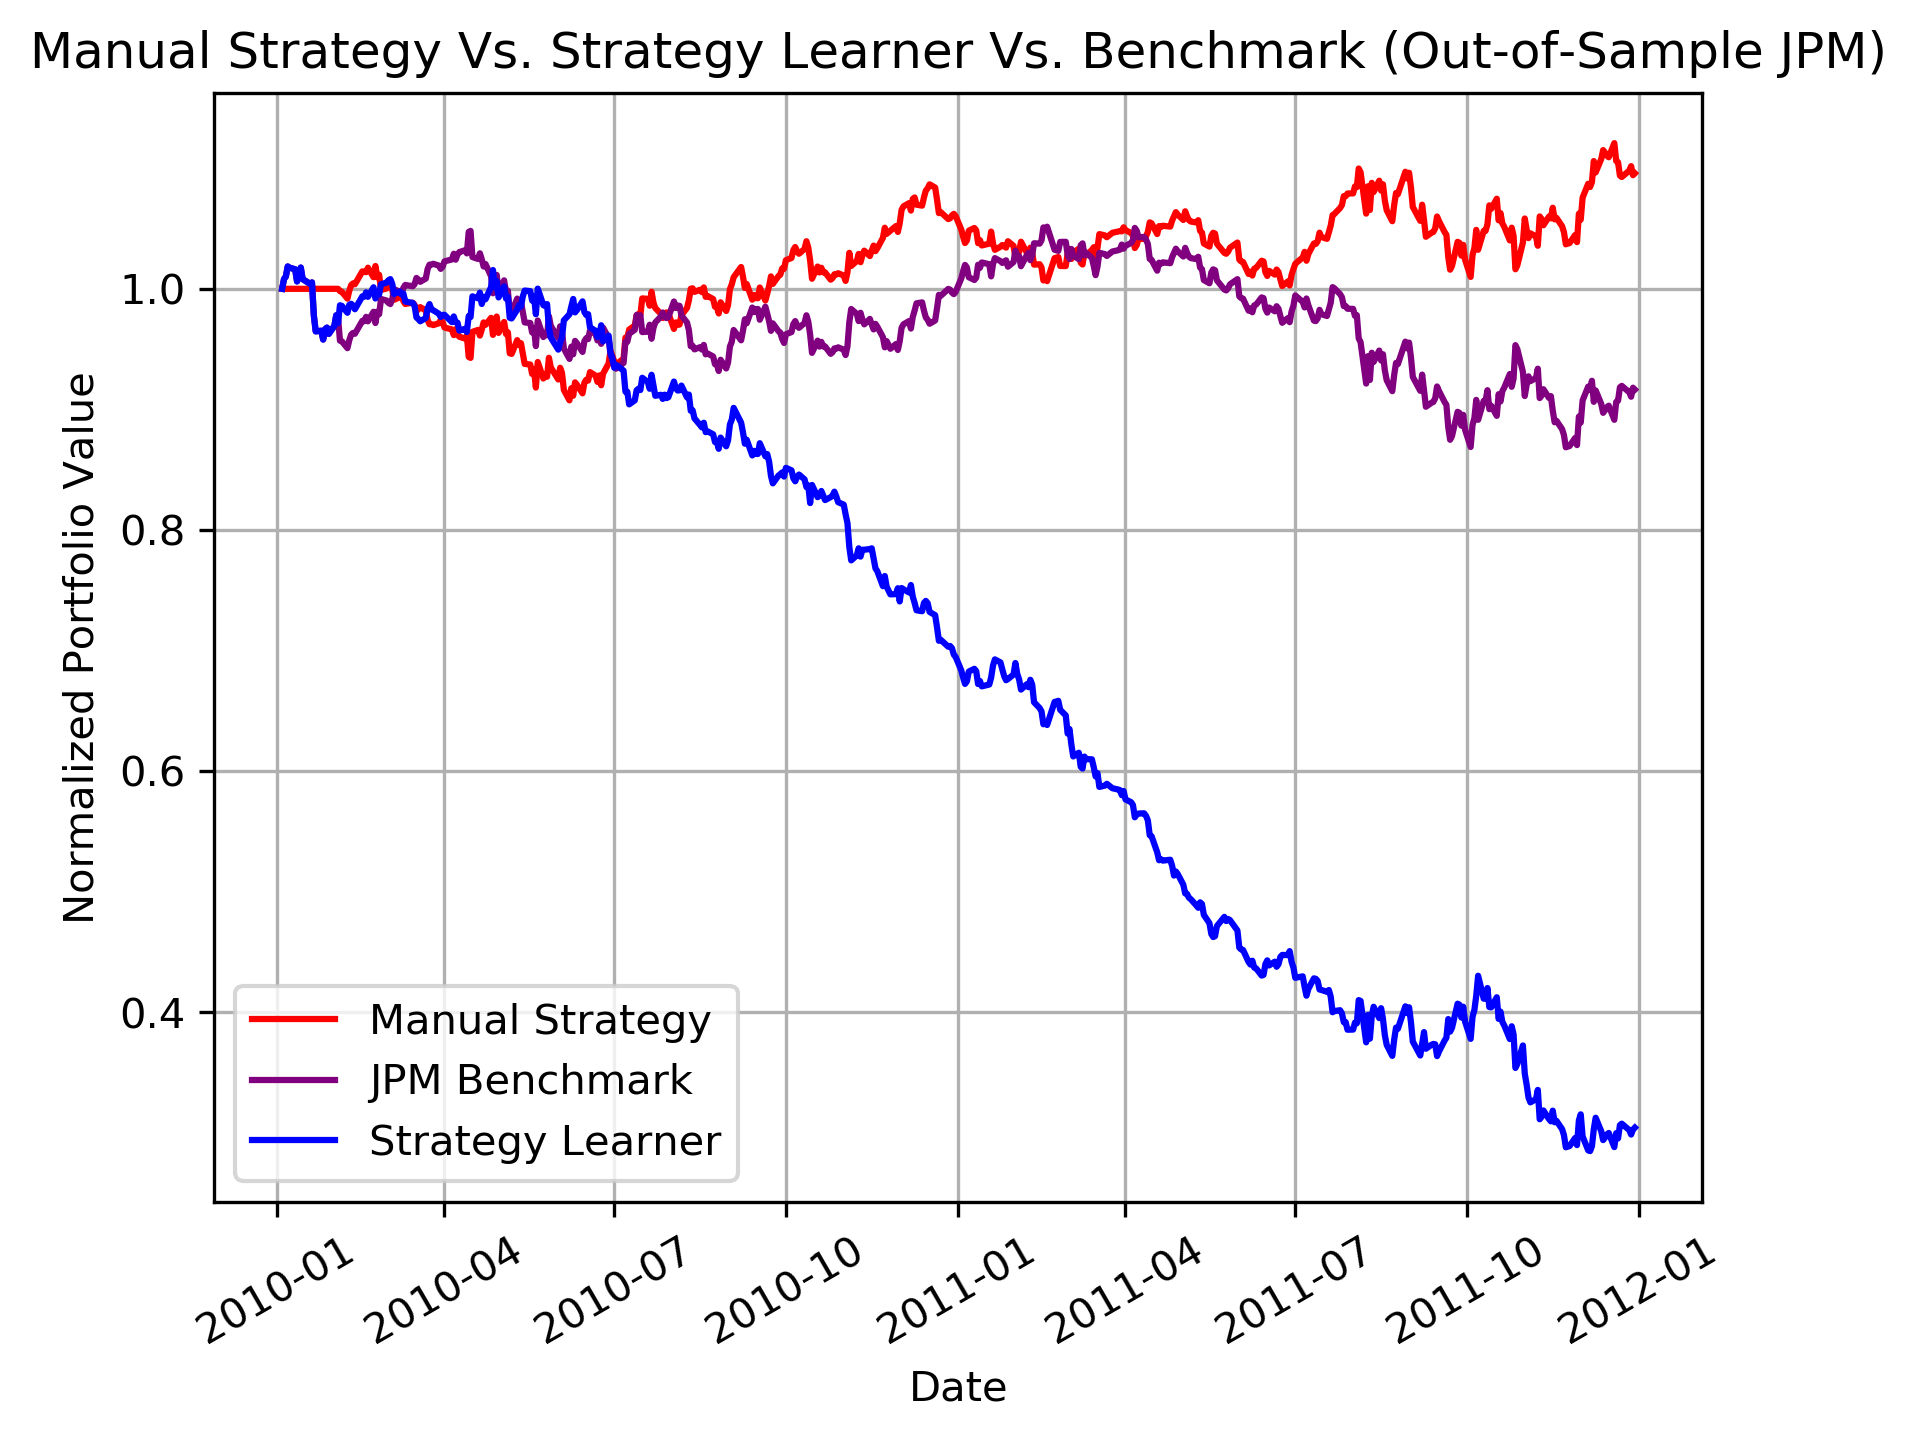
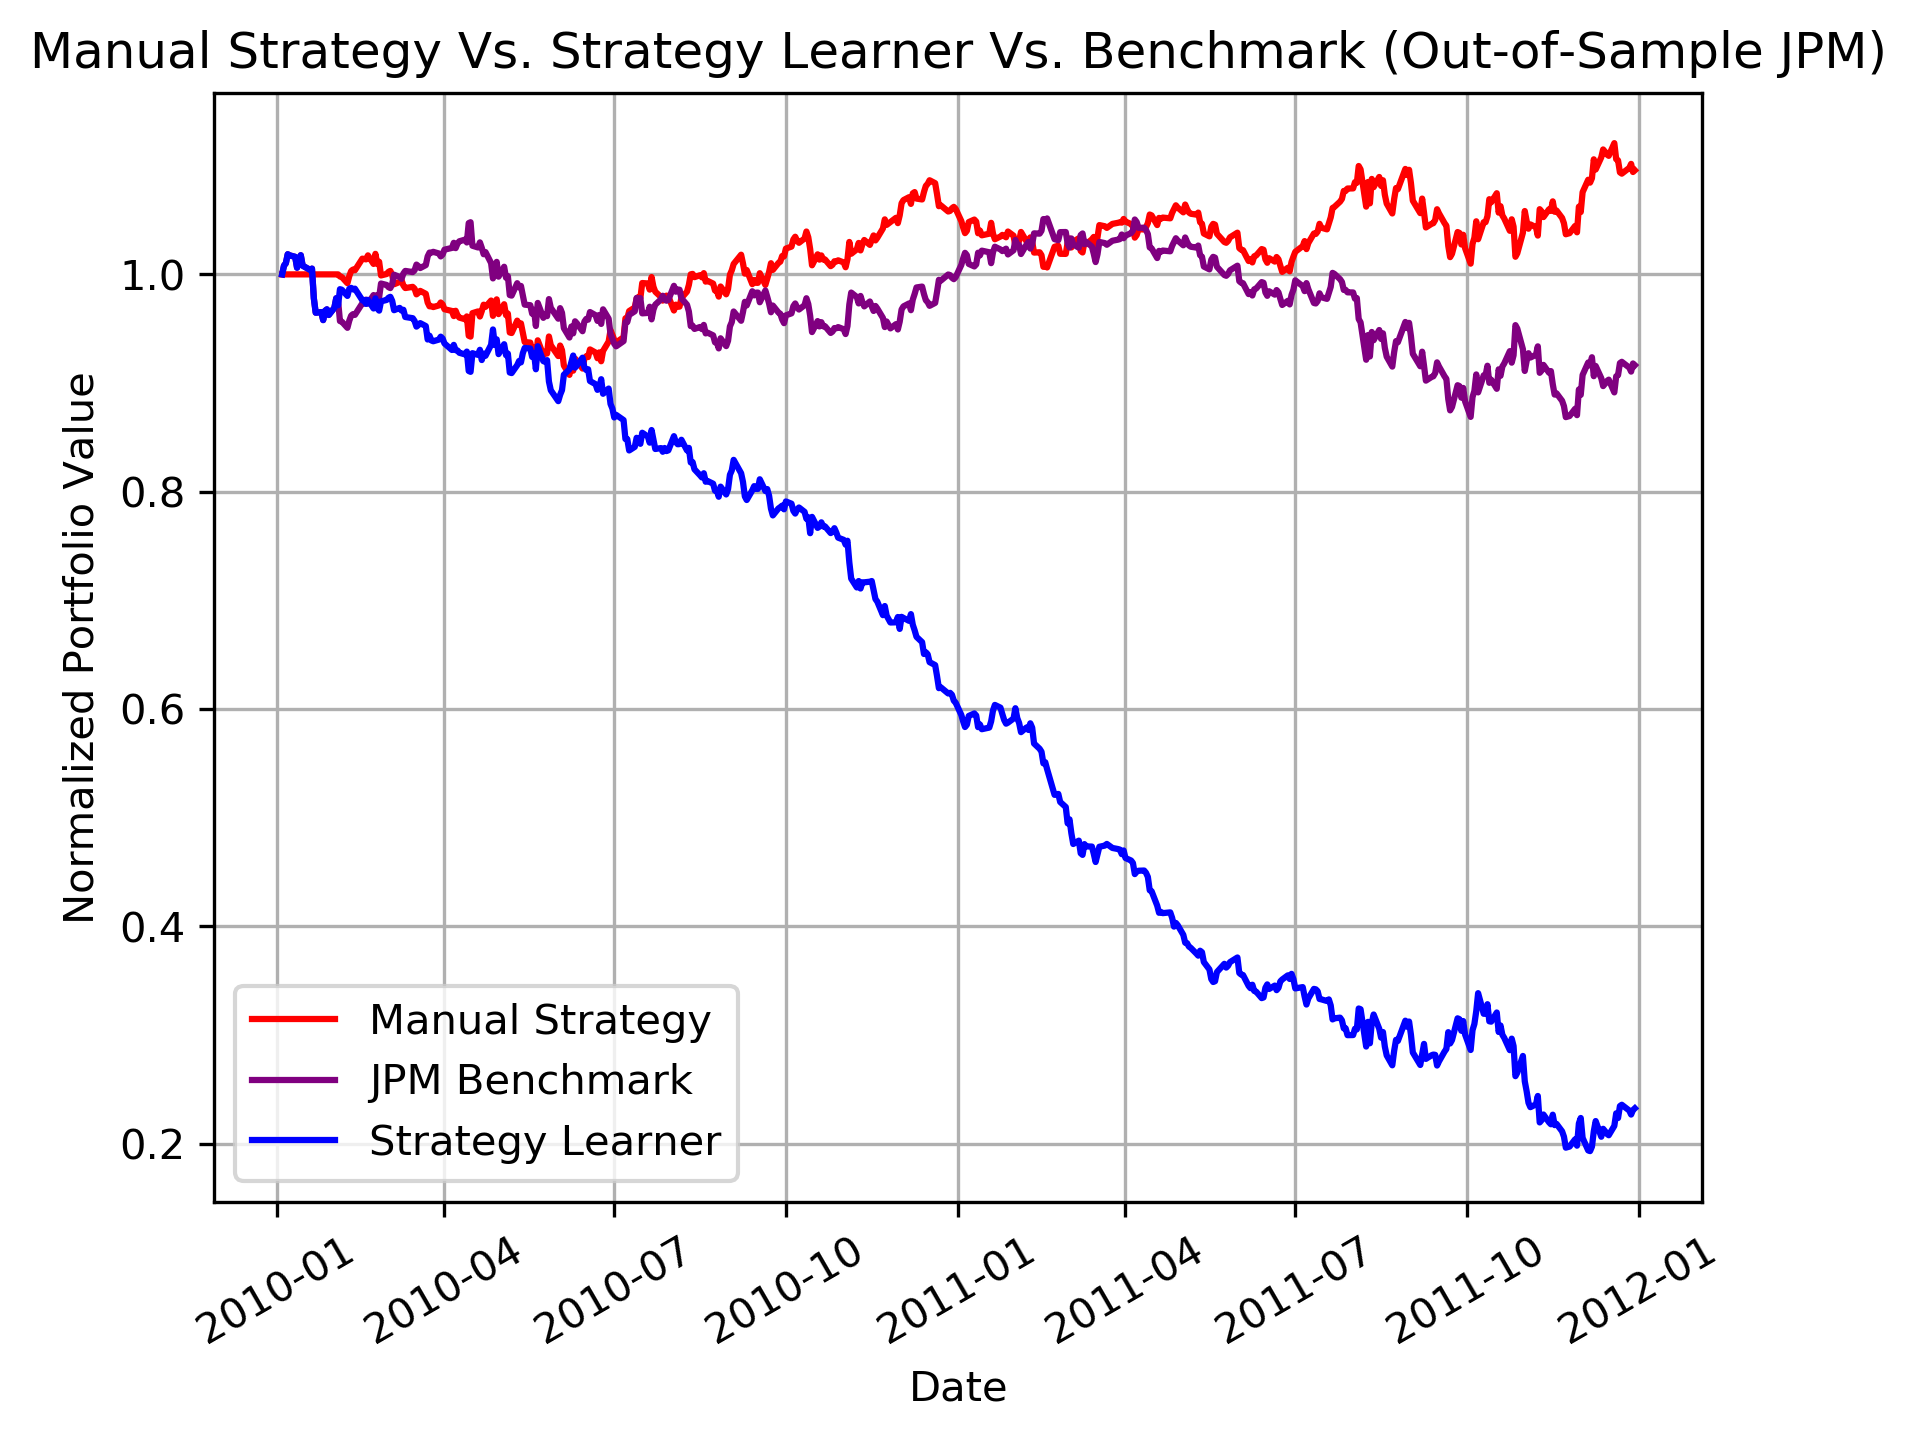
Final Code

diff --git a/strategy_evaluation/ManualStrategy.py b/strategy_evaluation/ManualStrategy.py
@@ -131,6 +131,7 @@ def print_stats(portvals, benchmark):
   adr_ben = dr_ben.mean()
   adr_the = dr_the.mean()
 
+  """
   print("======Manual Strategy======")
   print("Cumulative Return: " + str(cr_the))
   print("Stdev of daily returns: " + str(sddr_the))
@@ -140,6 +141,7 @@ def print_stats(portvals, benchmark):
   print("Cumulative Return: " + str(cr_ben))
   print("Stdev of daily returns: " + str(sddr_ben))
   print("Mean of daily returns: " + str(adr_ben))
+  """
 
 def plotting_utility_function(benchmark, portvals, short, long,title,xlabel,ylabel,fig_name):
 

diff --git a/strategy_evaluation/experiment1.py b/strategy_evaluation/experiment1.py
@@ -29,7 +29,7 @@ def author():
 def test_code():
     # Create objects of Manual Strategy and Strategy Learner
     ms = ManualStrategy()
-    sl = StrategyLearner(verbose = False, impact = 0.0, commission=0.0)
+    sl = StrategyLearner(verbose = False, impact = 0.005, commission=9.95)
 
     # Train Strategy Learner on In-Sample Data
     sl.add_evidence(symbol='JPM', sd=dt.datetime(2008, 1, 1), ed=dt.datetime(2009, 12, 31), sv = 100000)

diff --git a/strategy_evaluation/experiment2.py b/strategy_evaluation/experiment2.py
@@ -81,11 +81,13 @@ def print_stats(portvals):
   # Sharpe Ratio
   sr = np.sqrt(252) * (adr / sddr)
 
+  """
   print("~~~~~~~~~~Experiment 2~~~~~~~~~~")
   print("Cumulative Return: " + str(cr))
   print("Stdev of daily returns: " + str(sddr))
   print("Mean of daily returns: " + str(adr))
   print("Sharpe Ratio: " + str(sr))
+  """
 
 if __name__ == "__main__":
     pass
